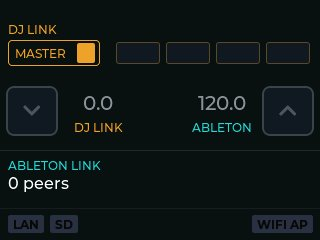
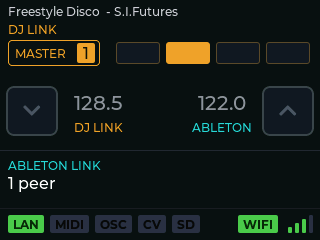
Add the device's own screenshots, and fix two things they exposed
Four screenshots taken on hardware: the dashboard bridging and idle, the CV
page, and WiFi in client mode. The README carries the two dashboards side by
side, because the difference between them is the whole project: two tempos not
talking, then one.

THE MASTER ROLE WAS ATTRIBUTED TO THE WRONG DIRECTION. The manual said the
left toggle — DJ Link to Ableton — makes us the DJ Link tempo master. It is
the right one that does:

    s_want_master = ui_clock_src() == CLOCK_SRC_ABLETON;   /* right toggle */

Imposing a tempo on the players requires being their master; following them
requires nothing, and a Pioneer player stays master throughout. The screenshot
is what caught it: the left toggle lit with the MASTER badge amber on device 1,
which under what I had written was impossible. Corrected in getting-started,
dashboard and troubleshooting, where a failed negotiation is now stated as a
right-hand-bridge symptom only.

THE TRACK LINE WAS NOT DOCUMENTED AT ALL. The topmost line of the dashboard,
absent from the manual because the one screenshot I had was of a stopped
device and the line is hidden when playback stops. It has behaviour worth
knowing: title and artist concatenated when they fit, alternating every three
seconds when they do not, the title drawn lighter to tell them apart without
labels, and the fit measured once per track rather than at 20 Hz.

Both of these are things a screenshot found and a careful reading of the
source had not.
[…]

diff --git a/docs/dashboard.md b/docs/dashboard.md
@@ -5,6 +5,34 @@
 The screen you get at power-on. Everything on it is readable at arm's length in
 a dark booth, which is the only design constraint that mattered.
 
+![The dashboard with a bridge running](img/dashboard-bridging.png)
+
+## The track line
+
+The topmost line: what the master is playing, read from the player over the
+`dbserver` protocol.
+
+It behaves in three ways depending on what fits and what is known:
+
+- **title and artist both fit** → shown together, `Title - Artist`, no movement
+- **they do not fit** → they alternate every **3 seconds**
+- **only one is known** → always that one, with no pointless flashing
+
+The title is drawn lighter than the artist. That is the only thing telling them
+apart: labels would have cost space the line does not have.
+
+**With playback stopped the line is empty**, but the data stays in memory — so
+if the same piece resumes there is no fresh query to the player.
+
+The measurement of whether the two fit is done **once per track change**, not
+at the 20 Hz the screen refreshes at. Track names are full of accents and
+apostrophes, so the width is measured by LVGL on the real font rather than
+estimated by counting characters.
+
+An empty line while something is clearly playing usually means the metadata
+query could not run — see
+[when something is wrong](troubleshooting.md#no-title-or-artist-in-the-playlist-or-in-title-over-osc).
+
 ## Top band — DJ Link
 
 **The MASTER badge**, top left, with the device number in a square beside it.
@@ -30,6 +58,11 @@ bridge is running.
 `ABLETON` on the right in cyan. Two independent tempos, neither imposed on the
 other.
 
+![No bridge: the two tempos, independent](img/dashboard-idle.png)
+
+Here the players are at 128.5 and the Link session at 122.0 — they are simply
+not talking to each other, and the screen says so by showing both.
+
 **A bridge running:** one large white number with `BPM` under it. The tempo both
 sides now share.
 
@@ -40,11 +73,18 @@ exclusive — turning one on turns the other off.
 
 | | |
 |---|---|
-| **left, cyan, arrow down** | DJ Link → Ableton. The players lead. We take the DJ Link master role, and Ableton Link follows. |
-| **right, arrow up** | Ableton → DJ Link. Ableton leads. The players follow, driven through their pitch. |
+| **left, cyan, arrow down** | DJ Link → Ableton. The players lead; the Link session follows them. |
+| **right, arrow up** | Ableton → DJ Link. Ableton leads; the players follow, driven through their pitch. |
 
 Tap to switch. If a toggle flashes red instead of switching, the screen is
 locked — see below.
+
+**Only the right-hand direction needs the master role.** Imposing a tempo on
+the players means being their tempo master, and that has to be negotiated.
+Following them needs nothing of the sort: we read their tempo and put it into
+the Link session, and a Pioneer player stays master throughout — which is why
+the MASTER badge above can sit amber with a player's number on it while the
+left toggle is lit.
 
 ## Lower band — Ableton Link and the phase offset
 

diff --git a/docs/getting-started.md b/docs/getting-started.md
@@ -102,16 +102,19 @@ them.
 Two toggles on the dashboard, one at each side, and they are mutually exclusive:
 
 - **left toggle (cyan, arrow down)** — DJ Link → Ableton. The players lead;
-  Ableton Link follows. AGGEGGINO becomes the DJ Link tempo master, which it
-  has to negotiate with the players.
+  the Link session follows them.
 - **right toggle (arrow up)** — Ableton → DJ Link. Ableton leads; the players
-  follow.
+  follow, driven through their pitch. **This one** requires AGGEGGINO to become
+  the DJ Link tempo master, and that has to be negotiated with the players.
 
 Tap one. The two grey BPMs are replaced by a single large number: the tempo the
 two sides now share.
 
-Taking the master role is a negotiation, not a declaration, and the **MASTER**
-badge shows how it is going:
+Going left to right — following the players — nothing else happens: a Pioneer
+player stays master and the badge keeps its number.
+
+Going the other way, taking the master role is a negotiation rather than a
+declaration, and the **MASTER** badge shows how it is going:
 
 | badge | meaning |
 |---|---|

diff --git a/README.md b/README.md
@@ -29,6 +29,22 @@ Transmitting, and being *accepted* as tempo master by real players, is a
 considerably stricter requirement: it forces you to measure things you can
 otherwise get away with guessing.
 
+<table>
+<tr>
+<td width="50%"><img src="docs/img/dashboard-idle.png" alt="The dashboard with no bridge running: two independent tempos"></td>
+<td width="50%"><img src="docs/img/dashboard-bridging.png" alt="The dashboard with a bridge running: one shared tempo"></td>
+</tr>
+<tr>
+<td><b>No bridge.</b> The players at 128.5, the Link session at 122.0. Two
+clocks, not talking.</td>
+<td><b>Bridging.</b> One tempo, one phase, and the outputs that carry it —
+here MIDI, OSC and CV at once, with a −6 ms offset on the OSC.</td>
+</tr>
+</table>
+
+Screenshots taken by the device itself: it writes its own screen to the SD
+card, which is how the pictures in [the manual](docs/) are made.
+
 ## Status
 
 Working and tested on hardware against 2× Pioneer XDJ-700, Ableton Live and

diff --git a/docs/troubleshooting.md b/docs/troubleshooting.md
@@ -55,6 +55,10 @@ application sees none. Either add an explicit inbound rule for the ports in use
 The master negotiation failed. We asked for the role and did not get it inside
 the timeout.
 
+**This only arises with the right-hand bridge**, Ableton → DJ Link: imposing a
+tempo on the players means being their master. Following them, left to right,
+asks for nothing and cannot fail this way.
+
 It is a negotiation conducted **through the status packets**, not a declaration:
 we ask, the current master yields by naming its successor in its own status, and
 only then do we take over. If the current master never yields, nothing happens.

diff --git a/docs/settings.md b/docs/settings.md
@@ -77,6 +77,8 @@ This is the Ableton Link side.
 
 The rows below depend on the mode.
 
+![Settings, WiFi, in Client mode](img/settings-wifi.png)
+
 **In Client mode:** **Choose network** scans and lists what it finds; pick one
 and type the key. If the key is refused, an **AUTH** badge appears in red on the
 dashboard — the network was found, so this is the password and not the signal.

diff --git a/docs/outputs.md b/docs/outputs.md
@@ -79,6 +79,8 @@ sequencer, a drum machine, a trigger input.
 **The output is on Port B, pin 1.** The menu says so under **Enabled**, and in
 those words, because the GPIO number has no marking on the connector.
 
+![Settings, Clock, Sink, CV](img/settings-cv.png)
+
 | entry | options | |
 |---|---|---|
 | **Enabled** | `ON` / `OFF` | |
